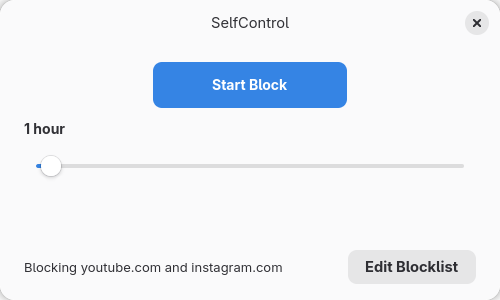
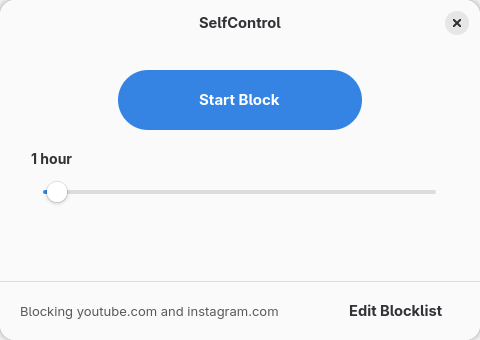
Polish UI: pill button, separator, larger countdown, Adw.ActionRow
- Pill-shaped Start Block button with Adw.Clamp on slider
- Separator line above bottom bar
- Larger skull (72px) and countdown (52px) with letter-spacing
- Blocklist dialog uses Adw.ActionRow for native GNOME list rows
- Ellipsis on summary label, subtle opacity
- Updated screenshots

diff --git a/data/style.css b/data/style.css
@@ -1,7 +1,7 @@
 .start-block-button {
-    min-height: 36px;
-    min-width: 160px;
-    font-size: 14px;
+    min-height: 40px;
+    min-width: 180px;
+    font-size: 15px;
 }
 
 .duration-label {
@@ -10,14 +10,17 @@
 }
 
 .skull-icon {
-    font-size: 64px;
+    font-size: 72px;
+    margin-bottom: 4px;
 }
 
 .countdown-label {
-    font-size: 48px;
+    font-size: 52px;
     font-weight: 300;
+    letter-spacing: 2px;
 }
 
 .summary-label {
     font-size: 13px;
+    opacity: 0.8;
 }

diff --git a/selfcontrol/window.py b/selfcontrol/window.py
@@ -44,55 +44,68 @@ def blocklist_summary(domains):
 
 class SelfControlWindow(Adw.ApplicationWindow):
     def __init__(self, app):
-        super().__init__(application=app, title="SelfControl", default_width=500, default_height=300, resizable=False)
+        super().__init__(application=app, title="SelfControl", default_width=480, default_height=340, resizable=False)
 
         self._client = None
         self._blocking = False
 
         # Header bar
         header = Adw.HeaderBar()
-        header.set_title_widget(Gtk.Label(label="SelfControl"))
+        title_label = Gtk.Label(label="SelfControl")
+        title_label.add_css_class("title")
+        header.set_title_widget(title_label)
 
         # Main content area
         self._content_box = Gtk.Box(orientation=Gtk.Orientation.VERTICAL, spacing=0)
         self._content_box.set_vexpand(True)
 
-        # -- Idle widgets --
-        self._idle_box = Gtk.Box(orientation=Gtk.Orientation.VERTICAL, spacing=12)
-        self._idle_box.set_margin_top(16)
-        self._idle_box.set_margin_start(24)
-        self._idle_box.set_margin_end(24)
+        # -- Idle view --
+        self._idle_box = Gtk.Box(orientation=Gtk.Orientation.VERTICAL, spacing=0)
         self._idle_box.set_vexpand(True)
 
-        # Start Block button (centered)
+        # Start Block button area
+        btn_box = Gtk.Box(orientation=Gtk.Orientation.VERTICAL)
+        btn_box.set_margin_top(24)
+        btn_box.set_margin_bottom(20)
         self._start_btn = Gtk.Button(label="Start Block")
         self._start_btn.add_css_class("suggested-action")
+        self._start_btn.add_css_class("pill")
         self._start_btn.add_css_class("start-block-button")
         self._start_btn.set_halign(Gtk.Align.CENTER)
         self._start_btn.connect("clicked", self._on_start_clicked)
-        self._idle_box.append(self._start_btn)
+        btn_box.append(self._start_btn)
+        self._idle_box.append(btn_box)
 
-        # Duration label
+        # Duration + slider in a clamp for nice width
+        slider_clamp = Adw.Clamp(maximum_size=420)
+        slider_clamp.set_margin_start(24)
+        slider_clamp.set_margin_end(24)
+        slider_inner = Gtk.Box(orientation=Gtk.Orientation.VERTICAL, spacing=8)
+
         self._duration_label = Gtk.Label(label="1 hour")
         self._duration_label.add_css_class("duration-label")
         self._duration_label.set_xalign(0)
-        self._idle_box.append(self._duration_label)
+        slider_inner.append(self._duration_label)
 
-        # Slider
         self._scale = Gtk.Scale.new_with_range(Gtk.Orientation.HORIZONTAL, 0.25, 24.0, 0.25)
         self._scale.set_value(1.0)
         self._scale.set_draw_value(False)
         self._scale.set_hexpand(True)
         self._scale.connect("value-changed", self._on_scale_changed)
-        self._idle_box.append(self._scale)
+        slider_inner.append(self._scale)
+
+        slider_clamp.set_child(slider_inner)
+        self._idle_box.append(slider_clamp)
+
+        # Spacer to push bottom bar down
+        spacer = Gtk.Box()
+        spacer.set_vexpand(True)
+        self._idle_box.append(spacer)
 
         self._content_box.append(self._idle_box)
 
-        # -- Blocking widgets (hidden initially) --
-        self._blocking_box = Gtk.Box(orientation=Gtk.Orientation.VERTICAL, spacing=4)
-        self._blocking_box.set_margin_top(16)
-        self._blocking_box.set_margin_start(24)
-        self._blocking_box.set_margin_end(24)
+        # -- Blocking view (hidden initially) --
+        self._blocking_box = Gtk.Box(orientation=Gtk.Orientation.VERTICAL, spacing=2)
         self._blocking_box.set_vexpand(True)
         self._blocking_box.set_valign(Gtk.Align.CENTER)
         self._blocking_box.set_visible(False)
@@ -109,20 +122,25 @@ class SelfControlWindow(Adw.ApplicationWindow):
 
         self._content_box.append(self._blocking_box)
 
-        # -- Bottom bar (always visible) --
-        bottom_bar = Gtk.Box(orientation=Gtk.Orientation.HORIZONTAL, spacing=8)
-        bottom_bar.set_margin_top(8)
-        bottom_bar.set_margin_bottom(16)
-        bottom_bar.set_margin_start(24)
-        bottom_bar.set_margin_end(24)
+        # -- Bottom bar --
+        separator = Gtk.Separator(orientation=Gtk.Orientation.HORIZONTAL)
+        self._content_box.append(separator)
+
+        bottom_bar = Gtk.Box(orientation=Gtk.Orientation.HORIZONTAL, spacing=12)
+        bottom_bar.set_margin_top(12)
+        bottom_bar.set_margin_bottom(12)
+        bottom_bar.set_margin_start(20)
+        bottom_bar.set_margin_end(20)
 
         self._summary_label = Gtk.Label(label="")
         self._summary_label.add_css_class("summary-label")
         self._summary_label.set_xalign(0)
         self._summary_label.set_hexpand(True)
+        self._summary_label.set_ellipsize(3)  # PANGO_ELLIPSIZE_END
         bottom_bar.append(self._summary_label)
 
         self._edit_btn = Gtk.Button(label="Edit Blocklist")
+        self._edit_btn.add_css_class("flat")
         self._edit_btn.connect("clicked", self._on_edit_clicked)
         bottom_bar.append(self._edit_btn)
 

diff --git a/selfcontrol/blocklist_dialog.py b/selfcontrol/blocklist_dialog.py
@@ -8,13 +8,14 @@ from gi.repository import Adw, Gtk
 
 class BlocklistDialog(Adw.Dialog):
     def __init__(self, client):
-        super().__init__(title="Edit Blocklist", content_width=400, content_height=450)
+        super().__init__(title="Edit Blocklist", content_width=420, content_height=480)
 
         self._client = client
         self._domains = []
 
         # Header bar with Cancel/Save
         header = Adw.HeaderBar()
+
         cancel_btn = Gtk.Button(label="Cancel")
         cancel_btn.connect("clicked", lambda b: self.close())
         header.pack_start(cancel_btn)
@@ -25,21 +26,24 @@ class BlocklistDialog(Adw.Dialog):
         header.pack_end(save_btn)
 
         # Main content
-        content_box = Gtk.Box(orientation=Gtk.Orientation.VERTICAL, spacing=12)
-        content_box.set_margin_top(12)
-        content_box.set_margin_bottom(12)
-        content_box.set_margin_start(12)
-        content_box.set_margin_end(12)
+        content_box = Gtk.Box(orientation=Gtk.Orientation.VERTICAL, spacing=16)
+        content_box.set_margin_top(16)
+        content_box.set_margin_bottom(16)
+        content_box.set_margin_start(16)
+        content_box.set_margin_end(16)
 
         # Add domain row
         add_box = Gtk.Box(orientation=Gtk.Orientation.HORIZONTAL, spacing=8)
+
         self._entry = Gtk.Entry()
         self._entry.set_placeholder_text("example.com")
         self._entry.set_hexpand(True)
         self._entry.connect("activate", self._on_add)
         add_box.append(self._entry)
 
-        add_btn = Gtk.Button(label="Add")
+        add_btn = Gtk.Button(icon_name="list-add-symbolic")
+        add_btn.add_css_class("suggested-action")
+        add_btn.set_tooltip_text("Add domain")
         add_btn.connect("clicked", self._on_add)
         add_box.append(add_btn)
 
@@ -56,7 +60,7 @@ class BlocklistDialog(Adw.Dialog):
         scrolled.set_child(self._list_box)
         content_box.append(scrolled)
 
-        # Toolbar view to combine header + content
+        # Assemble
         toolbar = Adw.ToolbarView()
         toolbar.add_top_bar(header)
         toolbar.set_content(content_box)
@@ -73,7 +77,6 @@ class BlocklistDialog(Adw.Dialog):
         self._rebuild_list()
 
     def _rebuild_list(self):
-        # Remove all rows
         while True:
             row = self._list_box.get_row_at_index(0)
             if row is None:
@@ -81,34 +84,23 @@ class BlocklistDialog(Adw.Dialog):
             self._list_box.remove(row)
 
         for domain in self._domains:
-            row = self._make_row(domain)
-            self._list_box.append(row)
+            self._list_box.append(self._make_row(domain))
 
     def _make_row(self, domain):
-        box = Gtk.Box(orientation=Gtk.Orientation.HORIZONTAL, spacing=8)
-        box.set_margin_top(6)
-        box.set_margin_bottom(6)
-        box.set_margin_start(12)
-        box.set_margin_end(6)
-
-        label = Gtk.Label(label=domain)
-        label.set_hexpand(True)
-        label.set_xalign(0)
-        box.append(label)
-
-        remove_btn = Gtk.Button(icon_name="user-trash-symbolic")
+        row = Adw.ActionRow(title=domain)
+        remove_btn = Gtk.Button(icon_name="edit-delete-symbolic")
         remove_btn.add_css_class("flat")
+        remove_btn.set_valign(Gtk.Align.CENTER)
+        remove_btn.set_tooltip_text("Remove")
         remove_btn.connect("clicked", self._on_remove, domain)
-        box.append(remove_btn)
-
-        return box
+        row.add_suffix(remove_btn)
+        return row
 
     def _on_add(self, widget):
         text = self._entry.get_text().strip().lower()
         if not text or text in self._domains:
             return
 
-        # Strip common prefixes
         for prefix in ("https://", "http://", "www."):
             if text.startswith(prefix):
                 text = text[len(prefix):]
@@ -120,6 +112,7 @@ class BlocklistDialog(Adw.Dialog):
         self._domains.append(text)
         self._list_box.append(self._make_row(text))
         self._entry.set_text("")
+        self._entry.grab_focus()
 
     def _on_remove(self, btn, domain):
         if domain in self._domains:
